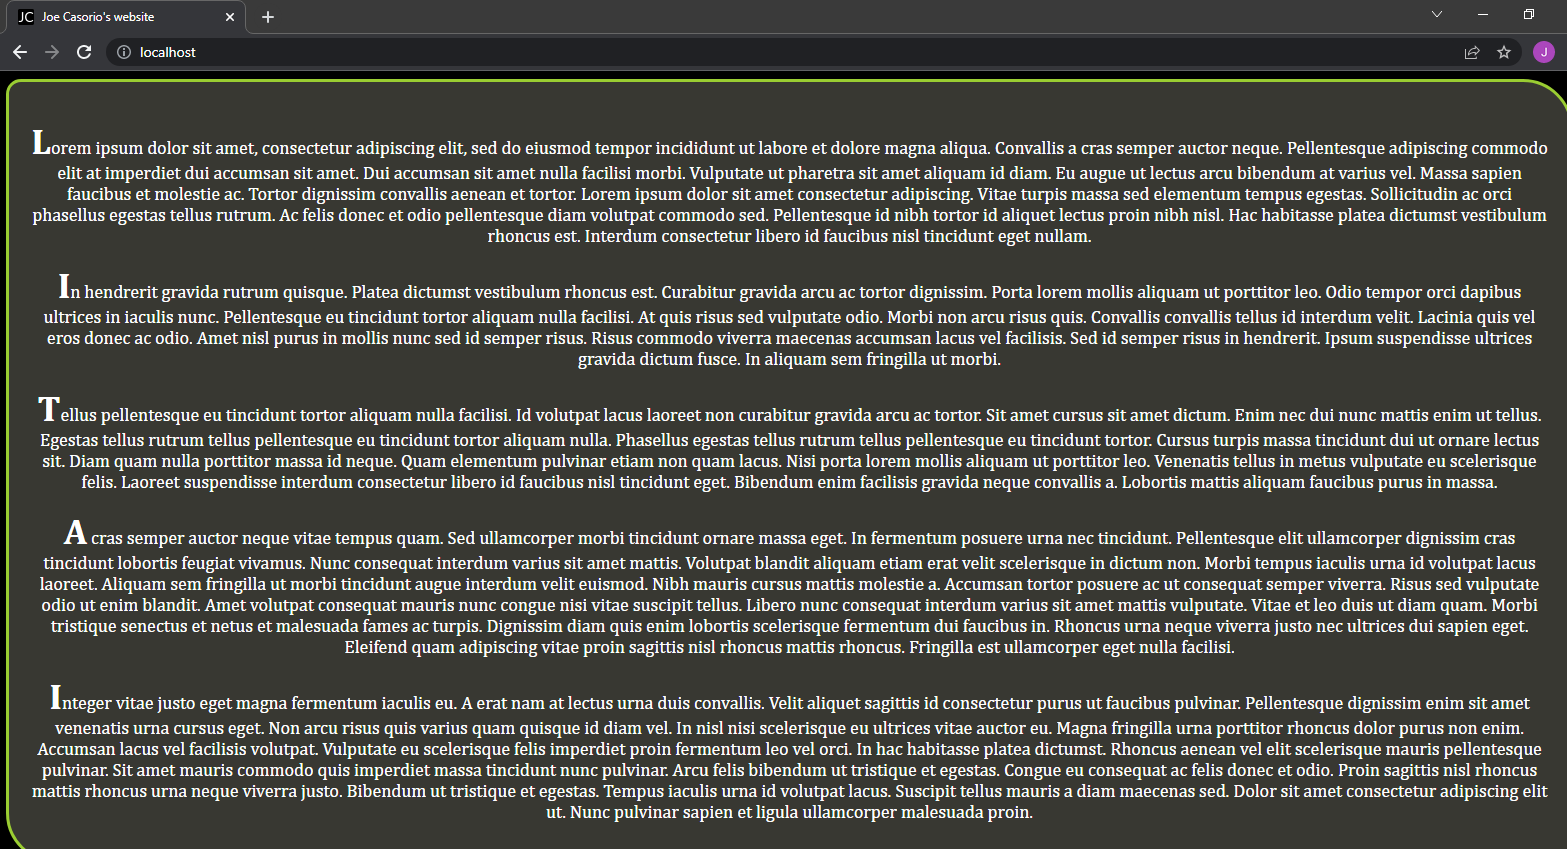
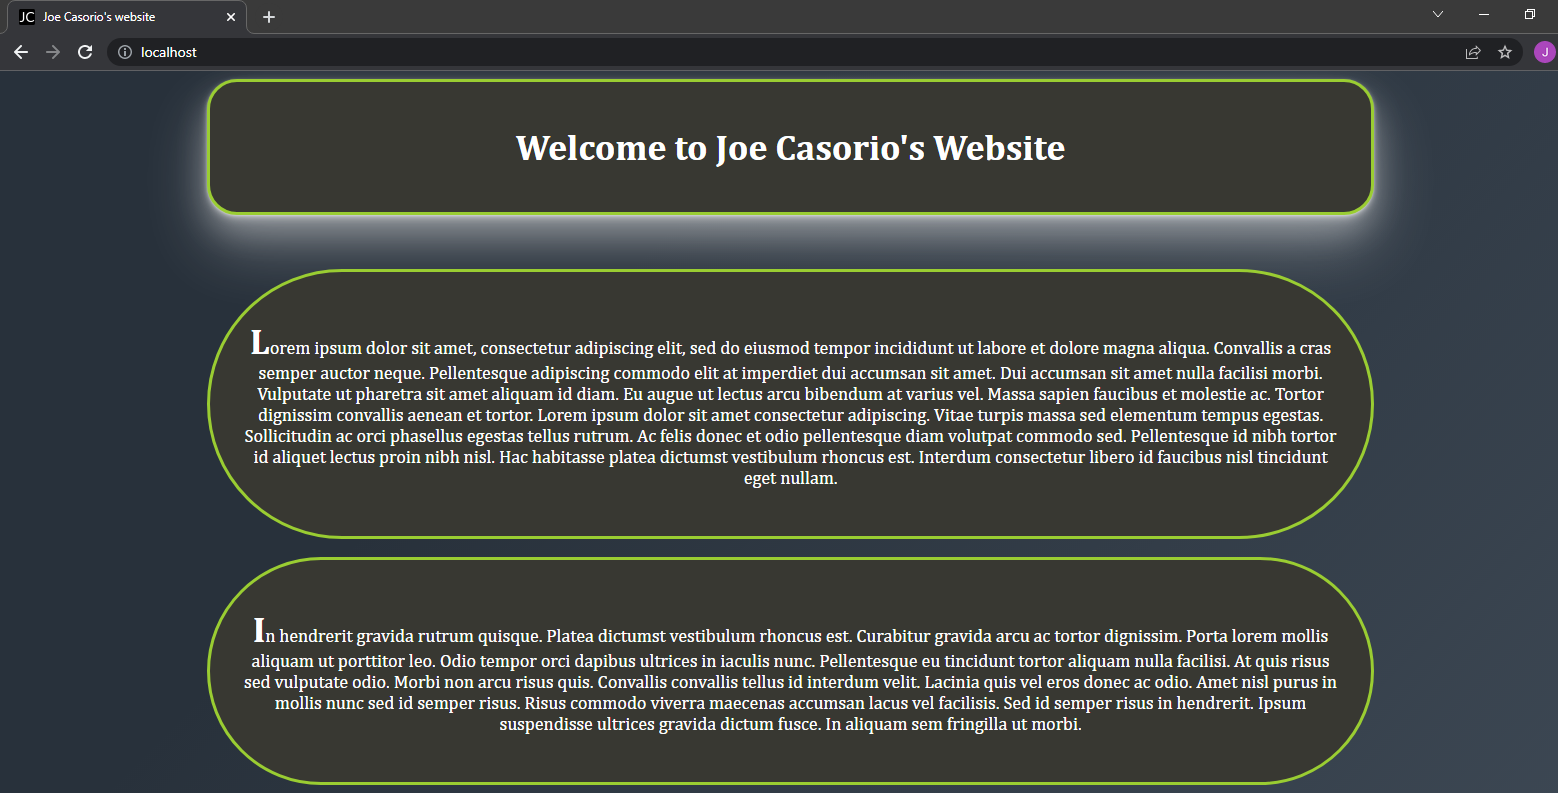
Updated CSS properties / Shadow Box Header / Appearance changes

diff --git a/app/templates/index.html b/app/templates/index.html
@@ -10,8 +10,14 @@
         <title>{% block title %}{% endblock %}{{ name }}</title>
     {% endblock %}
 </head>
+
 <body>
-<div id="maintext" class="text border">
+
+<div id="header" class="blog-shadow-dreamy text headerborder">
+   <h1>  Welcome to Joe Casorio's Website</h1>
+</div>
+<br><br><br>
+<div id="maintext" class="border text">
     <p><span class="firstletter">L</span>orem ipsum dolor sit amet, consectetur adipiscing elit, sed do eiusmod tempor
         incididunt ut labore et dolore magna
         aliqua. Convallis a cras semper auctor neque. Pellentesque adipiscing commodo elit at imperdiet dui accumsan sit
@@ -25,6 +31,8 @@
         nibh tortor id aliquet lectus proin nibh nisl. Hac habitasse platea dictumst vestibulum rhoncus est. Interdum
         consectetur libero id faucibus nisl tincidunt eget nullam.
     </p>
+</div><br>
+<div id="maintext" class="border text">
     <p><span class="firstletter">
     I</span>n hendrerit gravida rutrum quisque. Platea dictumst vestibulum rhoncus est. Curabitur gravida arcu ac tortor
         dignissim. Porta lorem mollis aliquam ut porttitor leo. Odio tempor orci dapibus ultrices in iaculis nunc.
@@ -33,7 +41,8 @@
         mollis
         nunc sed id semper risus. Risus commodo viverra maecenas accumsan lacus vel facilisis. Sed id semper risus in
         hendrerit. Ipsum suspendisse ultrices gravida dictum fusce. In aliquam sem fringilla ut morbi.
-    </p>
+    </p></div><br>
+<div id="maintext" class="border text">
     <p><span class="firstletter">
     T</span>ellus pellentesque eu tincidunt tortor aliquam nulla facilisi. Id volutpat lacus laoreet non curabitur
         gravida arcu
@@ -45,7 +54,8 @@
         metus
         vulputate eu scelerisque felis. Laoreet suspendisse interdum consectetur libero id faucibus nisl tincidunt eget.
         Bibendum enim facilisis gravida neque convallis a. Lobortis mattis aliquam faucibus purus in massa.
-    </p>
+    </p></div><br>
+<div id="maintext" class="border text">
     <p><span class="firstletter">
     A</span> cras semper auctor neque vitae tempus quam. Sed ullamcorper morbi tincidunt ornare massa eget. In fermentum
         posuere urna nec tincidunt. Pellentesque elit ullamcorper dignissim cras tincidunt lobortis feugiat vivamus.
@@ -62,7 +72,8 @@
         urna neque viverra justo nec ultrices dui sapien eget. Eleifend quam adipiscing vitae proin sagittis nisl
         rhoncus
         mattis rhoncus. Fringilla est ullamcorper eget nulla facilisi.
-    </p>
+    </p></div><br>
+<div id="maintext" class="border text">
     <p><span class="firstletter">
     I</span>nteger vitae justo eget magna fermentum iaculis eu. A erat nam at lectus urna duis convallis. Velit aliquet
         sagittis id consectetur purus ut faucibus pulvinar. Pellentesque dignissim enim sit amet venenatis urna cursus

diff --git a/app/static/css/style.css b/app/static/css/style.css
@@ -1,23 +1,46 @@
 body {
-        background-color: black;
+     background-color: #485461;
+     background-image: linear-gradient(315deg, #485461 0%, #28313b 74%);
 }
+
 .text {
     font-family: Cambria, Helvetica, sans-serif;
     color: white;
     font-size: 18px;
     }
 
-.border {
+.blog-shadow-dreamy {
+    box-shadow: 0 1px 2px rgba(255, 255, 255, 0.3),
+    0 2px 4px rgba(255, 255, 255, 0.3),
+    0 4px 8px rgba(255, 255, 255, 0.3),
+    0 16px 32px rgba(255, 255, 255, 0.3),
+    0 32px 64px rgba(255, 255, 255, 0.3);
+}
+
+.headerborder {
     background-color: #383832;
     border: 3px solid yellowgreen;
-    border-radius: 15px 50px;
+    border-radius: 30px 30px;
     padding: 20px;
     width: auto;
     height: auto;
     alignment: center;
     text-align: center;
-    margin-left: auto;
-    margin-right: auto;
+    margin-left: 200px;
+    margin-right: 200px;
+}
+
+.border {
+    background-color: #383832;
+    border: 3px solid yellowgreen;
+    border-radius: 150px 150px;
+    padding: 30px;
+    width: auto;
+    height: auto;
+    alignment: center;
+    text-align: center;
+    margin-left: 200px;
+    margin-right: 200px;
 }
 .firstletter {
     font-weight: bold;
